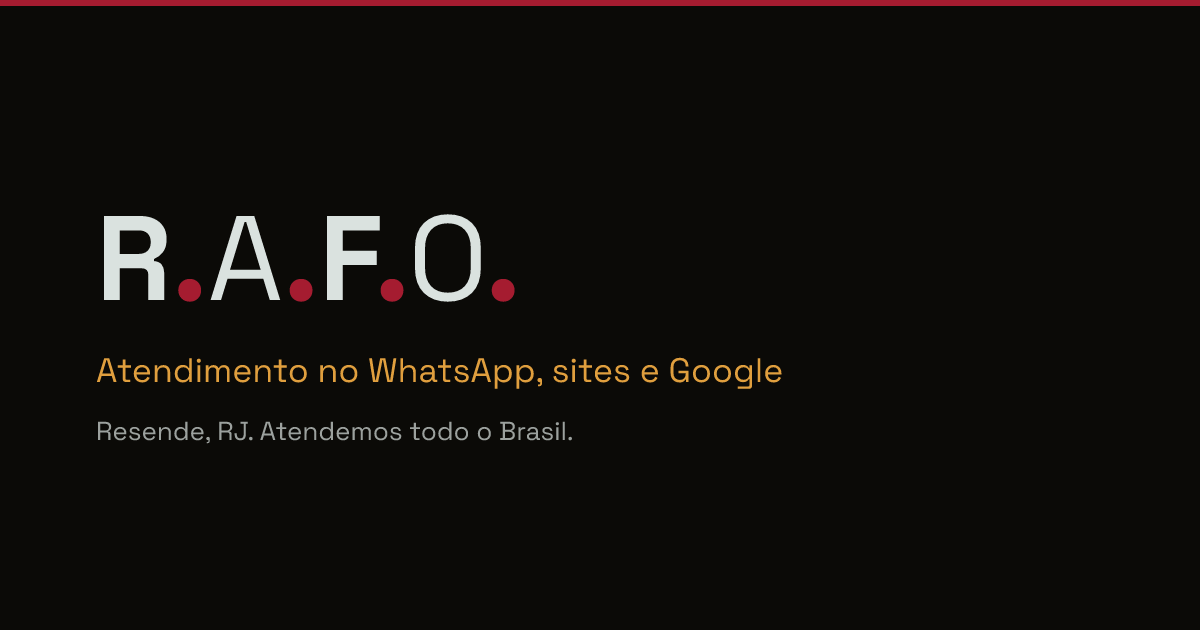
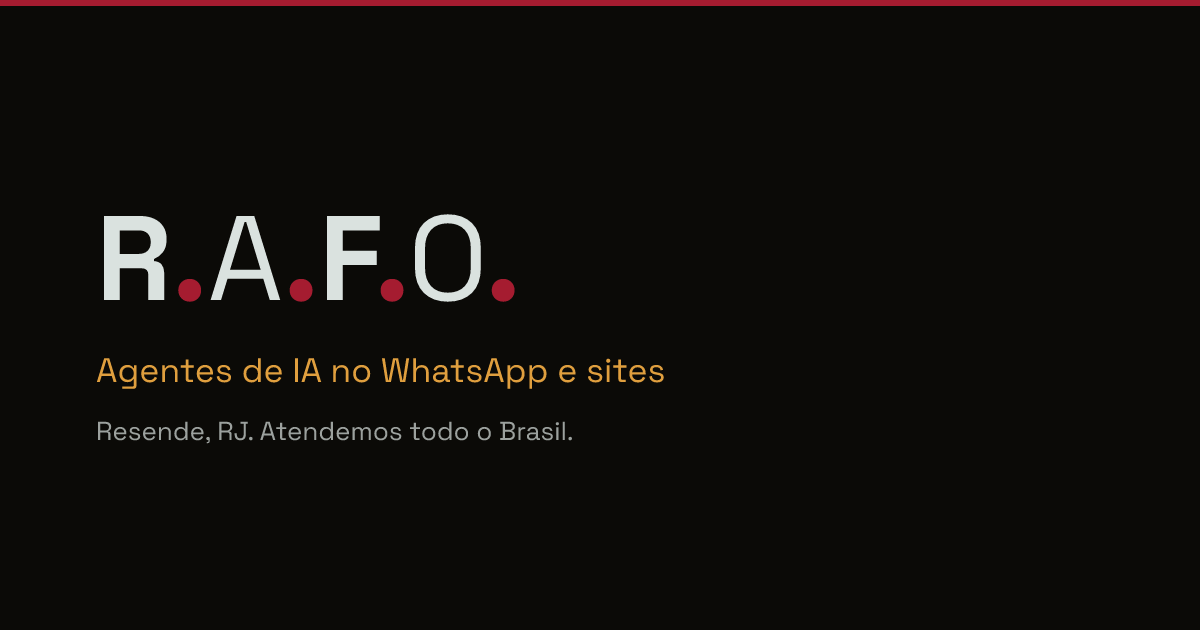
Remove o servico Presenca no Google do site
O site passa a mostrar so agentes de IA para WhatsApp e sites
institucionais. Sai a pagina /presenca-no-google/ e o guia do Google
Meu Negocio, que agora redirecionam para a home no nginx. Com o R$ 97
fora, nenhum servico tem preco publico, e a verificacao de SEO passa a
exigir isso.

Changed region(s): [[0.0925, 0.573, 0.6475, 0.6333]]

diff --git a/src/data/servicos.ts b/src/data/servicos.ts
@@ -14,7 +14,10 @@
 //   - src/lib/schema.ts               (JSON-LD, via empresa.servicos)
 //
 // Regra de copy: nenhum texto aqui posiciona a empresa por nicho, e
-// nenhum número de resultado é inventado. Preço só na Presença no Google.
+// nenhum número de resultado é inventado. Nenhum serviço tem preço público:
+// tudo é sob orçamento. A Presença no Google saiu do catálogo em
+// 2026-09-21, por decisão do fundador: o site mostra só sites e
+// agentes de IA.
 
 import type { PerguntaFrequente } from './empresa';
 
@@ -26,7 +29,7 @@ export interface Servico {
   /** Copy do card na home, em segunda pessoa. */
   chamadaHome: string;
   /** Nome do ícone em src/components/Icon.astro. */
-  icone: 'google' | 'whatsapp' | 'site';
+  icone: 'whatsapp' | 'site';
   /** Preço público em reais, ou null quando é sob orçamento. */
   precoBRL: number | null;
   precoNota: string;
@@ -47,61 +50,6 @@ export interface Servico {
 }
 
 export const servicos: Servico[] = [
-  {
-    slug: 'presenca-no-google',
-    nome: 'Presença no Google',
-    descricao:
-      'Configuração e otimização do perfil no Google Meu Negócio, para o negócio aparecer para quem já está procurando o que ele oferece.',
-    chamadaHome:
-      'Configuramos e otimizamos seu perfil no Google Negócio pra você aparecer pra quem já está procurando o que você oferece.',
-    icone: 'google',
-    precoBRL: 97,
-    // O valor combinado com site saiu do site público em 2026-08-11, por
-    // decisão do fundador. Desconto de pacote é assunto de negociação, e
-    // publicado ele vira âncora: quem lê passa a esperar o menor número
-    // como preço, e o de R$ 97 passa a parecer o caro.
-    precoNota: 'Valor único, sem mensalidade.',
-    tituloPagina:
-      'Presença no Google por R$ 97: perfil configurado e otimizado',
-    descricaoPagina:
-      'Configuramos e otimizamos seu perfil no Google Meu Negócio por R$ 97, valor único. Você passa a aparecer no Maps e na busca de quem já procura o que faz.',
-    resposta:
-      'A Presença no Google custa R$ 97, valor único e sem mensalidade. Configuramos e otimizamos o perfil do seu negócio no Google Meu Negócio, que é o que faz você aparecer no Google Maps e na busca local quando alguém procura o serviço que você oferece na sua região.',
-    incluso: [
-      'Criação do perfil, ou reivindicação dele se já existir um perfil não gerenciado',
-      'Preenchimento completo de categoria, serviços, horário, área de atendimento e formas de contato',
-      'Padronização de nome, endereço e telefone, que é o que o Google usa para confiar no seu negócio',
-      'Orientação sobre fotos e sobre como pedir avaliação de cliente sem infringir as regras do Google',
-      'Link do perfil apontando para o seu site ou direto para o seu WhatsApp',
-    ],
-    comoFunciona: [
-      'Você manda os dados do negócio e a gente confere o que já existe publicado sobre ele no Google.',
-      'Configuramos ou reivindicamos o perfil e preenchemos tudo que o Google usa para ranquear e para exibir.',
-      'Você recebe o perfil pronto e uma orientação curta de como manter, porque perfil parado perde posição.',
-    ],
-    faq: [
-      {
-        pergunta: 'Eu preciso ter endereço comercial para aparecer no Google?',
-        resposta:
-          'Não necessariamente. Quem atende no endereço do cliente pode configurar o perfil como área de atendimento, sem exibir endereço. Quem recebe cliente em endereço fixo aparece também no Maps.',
-      },
-      {
-        pergunta: 'Em quanto tempo o perfil começa a aparecer?',
-        resposta:
-          'Depois da verificação do Google, que costuma ser a parte mais demorada e depende dele, o perfil começa a aparecer em poucos dias. A posição melhora conforme o perfil recebe avaliação e movimento.',
-      },
-      {
-        pergunta: 'Tem mensalidade?',
-        resposta:
-          'Não. São R$ 97 uma vez só. Não vendemos manutenção mensal para esse serviço.',
-      },
-      {
-        pergunta: 'Já tenho um perfil, mas está bagunçado. Serve?',
-        resposta:
-          'Serve, e costuma ser o caso mais comum. A gente reivindica o perfil existente e corrige o que estiver errado, em vez de criar um duplicado, que atrapalharia.',
-      },
-    ],
-  },
   {
     slug: 'agentes-whatsapp',
     nome: 'Agentes autônomos para WhatsApp',

diff --git a/src/lib/schema.ts b/src/lib/schema.ts
@@ -56,7 +56,7 @@ export function negocioNode(): Record<string, unknown> {
     knowsAbout: [
       'Automação de atendimento no WhatsApp',
       'Agentes autônomos de atendimento',
-      'Google Meu Negócio',
+      'Agentes de IA',
       'Sites institucionais',
     ],
     hasOfferCatalog: {
@@ -75,8 +75,8 @@ export function negocioNode(): Record<string, unknown> {
             provider: { '@id': ID_NEGOCIO },
           },
         };
-        // Só a Presença no Google tem preço público. O preço de fundação
-        // dos outros dois é temporário e não pode virar âncora pública.
+        // Hoje nenhum serviço tem preço público. O ramo fica para o dia
+        // em que algum voltar a ter; preço de fundação nunca entra aqui.
         if (servico.precoBRL !== null) {
           oferta.price = servico.precoBRL;
           oferta.priceCurrency = 'BRL';
@@ -194,8 +194,8 @@ export function servicoNode(servico: Servico, canonical: string): Record<string,
     ],
   };
 
-  // Só a Presença no Google tem preço público. As outras duas estão em
-  // preço de fundação, que é temporário e não pode virar âncora pública.
+  // Hoje nenhum serviço tem preço público. Preço de fundação é
+  // temporário e não pode virar âncora pública.
   if (servico.precoBRL !== null) {
     node.offers = {
       '@type': 'Offer',

diff --git a/src/pages/llms.txt.ts b/src/pages/llms.txt.ts
@@ -32,7 +32,7 @@ export const GET: APIRoute = async () => {
     .join('\n');
 
   // Nome, preço, descrição e link do serviço numa linha só. Antes a lista
-  // de páginas e a de serviços repetiam os três serviços inteiros, o que
+  // de páginas e a de serviços repetiam os serviços inteiros, o que
   // gasta o contexto de quem lê sem acrescentar nada.
   const servicos = empresa.servicos
     .map(
@@ -53,7 +53,7 @@ ${empresa.descricaoLonga}
 
 ## Páginas
 
-- [Home](${empresa.url}/): o que a empresa faz, os três serviços e as perguntas frequentes.
+- [Home](${empresa.url}/): o que a empresa faz, os serviços e as perguntas frequentes.
 - [Sobre](${empresa.url}/sobre/): onde a empresa fica, como trabalha e o que oferece.
 - [Contato](${empresa.url}/contato/): canais reais de contato e a cidade base.
 

diff --git a/src/data/empresa.ts b/src/data/empresa.ts
@@ -50,7 +50,7 @@ export const empresa: Empresa = {
   url: 'https://rafolabs.tech',
 
   descricaoCurta:
-    'Automação de atendimento no WhatsApp, sites institucionais e perfil no Google para pequenos negócios.',
+    'Agentes de IA para atendimento no WhatsApp e sites institucionais para pequenos negócios.',
 
   descricaoLonga:
     'A R.A.F.O. ajuda pequenos negócios a ter presença online profissional e a automatizar o atendimento no WhatsApp, sem a complexidade nem o custo de uma agência grande. O atendimento é direto com o fundador, e cada solução é construída em cima do fluxo real do negócio, não em cima de um pacote pronto.',

diff --git a/src/pages/llms-full.txt.ts b/src/pages/llms-full.txt.ts
@@ -69,7 +69,7 @@ Guia completo: ${empresa.url}/guias/${g.id}/`
 
 ${empresa.descricaoLonga}
 
-A empresa trabalha com três frentes, e o cliente escolhe a partir da dor que traz, não de um pacote fechado. É comum um negócio começar por uma delas e adicionar as outras depois.
+A empresa trabalha com duas frentes, e o cliente escolhe a partir da dor que traz, não de um pacote fechado. É comum um negócio começar por uma delas e adicionar a outra depois.
 
 ## Serviços
 

diff --git a/src/content.config.ts b/src/content.config.ts
@@ -30,7 +30,6 @@ const guias = defineCollection({
      * de link interno falharia de qualquer jeito.
      */
     servicoRelacionado: z.enum([
-      'presenca-no-google',
       'agentes-whatsapp',
       'sites-institucionais',
     ]),

diff --git a/src/content/guias/quanto-custa-automatizar-atendimento-whatsapp.md b/src/content/guias/quanto-custa-automatizar-atendimento-whatsapp.md
@@ -173,5 +173,5 @@ A terceira diz em quanto tempo se paga.
 
 Se a resposta da primeira for "poucas mensagens e quase todas diferentes",
 a resposta honesta é que automação provavelmente não é a sua prioridade
-agora. Vale mais arrumar a presença no Google e o site, para que as
+agora. Vale mais arrumar o site, para que as
 mensagens que chegam sejam de gente mais preparada para comprar.
